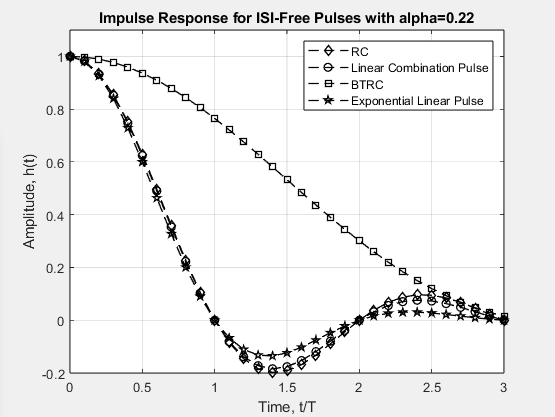
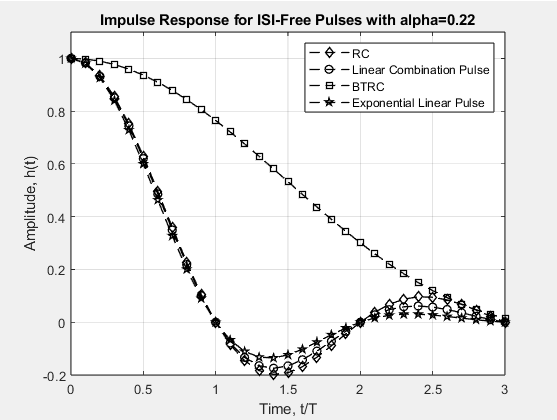
dasdas

diff --git a/EL7041 Comu Avan/P1/Eye_Diagram_LCP_RaisedCosine.m b/EL7041 Comu Avan/P1/Eye_Diagram_LCP_RaisedCosine.m
@@ -7,7 +7,7 @@ clc
 N  = 10^5; % number of symbols, solo se tomaran las primeras 1000000 muestras
 am = 2*(rand(1,N)>0.5)-1 + (1i)*(2*(rand(1,N)>0.5)-1); %random binary sequence BPSK
 fs = 10; % sampling frequency in Hz
-alpha = 0.5; %roll-off factor
+alpha = 0.22; %roll-off factor
 %--------------------------------------------------------------------------
 %--------------------------------------------------------------------------
 %RAISED COSINE FILTER
@@ -34,17 +34,17 @@ gt_alpha35 = sincOp.*cosOp; %RC impulse responde
 % constante*PLP(n=1) +(1-constante)RC
 constante=1.7;  %valor de la constante Beta --> referencia 
 
-Exp1_Num=((1-constante)*sin(pi*[-fs:1/fs:fs]).*cos(pi*alpha*[-fs:1/fs:fs]));
+Exp1_Num=((1-constante)*sin(pi*[-fs:1/fs:fs]).*cos(pi*alpha*[-fs:1/fs:fs])); %RC
 Exp1_Den=pi*[-fs:1/fs:fs].*(1-(2*alpha*[-fs:1/fs:fs]).^2);
 Exp1DenZero=find(abs(Exp1_Den) < 10^-10);
 Exp1_Total=Exp1_Num./Exp1_Den;
 Exp1_Total(Exp1DenZero)=0;
 
-Exp2_Num=constante*sin(pi*[-fs:1/fs:fs]).*sin(pi*alpha*[-fs:1/fs:fs]);
+Exp2_Num=constante*sin(pi*[-fs:1/fs:fs]).*sin(pi*alpha*[-fs:1/fs:fs]); %PLP
 Exp2_Den=pi^2*alpha*[-fs:1/fs:fs].^2;
 Exp2DenZero=find(abs(Exp2_Den) < 10^-10);
 Exp2_Total=Exp2_Num./Exp2_Den;
-Exp2_Total(Exp2DenZero)=0;
+Exp2_Total(Exp2DenZero)=1;
 
 Linear_Combination_Pulse_PLP=(Exp1_Total+Exp2_Total);
 

diff --git a/EL7041 Comu Avan/P1/Impulse_Frequency_Responses.m b/EL7041 Comu Avan/P1/Impulse_Frequency_Responses.m
@@ -7,7 +7,7 @@ clear all
 fs =10;
 NFFT=1024;
 FPulse=[-NFFT/2:NFFT/2-1]/NFFT;
-alpha = 0.5;
+alpha = 0.22;
 %--------------------------------------------------------------------------
 %--------------------------------------------------------------------------
 %defining the RC filter
@@ -30,19 +30,19 @@ RC_Filter_Spectrum_dB = 20*log10((fft(RC_Filter,1024))/fs);
 %--------------------------------------------------------------------------
 %LINEAR COMBINATION PULSE
 %alpha*PLP(n=1) +(1-alpha)RC
-constante=1; %alpha
+constante=1.7; %alpha
 
 Exp1_Num=((1-constante)*sin(pi*[-fs:1/fs:fs]).*cos(pi*alpha*[-fs:1/fs:fs])); %RC
 Exp1_Den=pi*[-fs:1/fs:fs].*(1-(2*alpha*[-fs:1/fs:fs]).^2);
 Exp1DenZero=find(abs(Exp1_Den) < 10^-10);
 Exp1_Total=Exp1_Num./Exp1_Den;
-Exp1_Total(Exp1DenZero)=0.5;
+Exp1_Total(Exp1DenZero)=0;
 
 Exp2_Num=constante*sin(pi*[-fs:1/fs:fs]).*sin(pi*alpha*[-fs:1/fs:fs]); %PLP
 Exp2_Den=pi^2*alpha*[-fs:1/fs:fs].^2;
 Exp2DenZero=find(abs(Exp2_Den) < 10^-10);
 Exp2_Total=Exp2_Num./Exp2_Den;
-Exp2_Total(Exp2DenZero)=0.5;
+Exp2_Total(Exp2DenZero)=1;
 
 Linear_Combination_Pulse_PLP=(Exp1_Total+Exp2_Total);
 Linear_Combination_Pulse_PLP_Spectrum=(abs((fft(Linear_Combination_Pulse_PLP,NFFT))/fs));

diff --git a/EL7041 Comu Avan/P1/BERyPulsos/Pulsos/LCP.m b/EL7041 Comu Avan/P1/BERyPulsos/Pulsos/LCP.m
@@ -1,0 +1,31 @@
+function[v]=LCP(t,alpha)
+% Function for the BTRC pulse shape.
+
+% Set the parameters
+T=1;
+
+%LINEAR COMBINATION PULSE
+%alpha*PLP(n=1) +(1-alpha)RC
+constante=1; %alpha
+
+Exp1_Num=((1-constante)*sin(pi*(t / T))*cos(pi*alpha*(t / T))); %RC
+Exp1_Den=pi*(t / T)*(1-(2*alpha*(t / T))^2);
+%Exp1DenZero=find(abs(Exp1_Den) < 10^-10);
+Exp1_Total=Exp1_Num./Exp1_Den;
+%Exp1_Total(Exp1DenZero)=0.5;
+
+Exp2_Num=constante*sin(pi*(t / T))*sin(pi*alpha*(t / T)); %PLP
+Exp2_Den=pi^2*alpha*(t / T)^2;
+%Exp2DenZero=find(abs(Exp2_Den) < 10^-10);
+Exp2_Total=Exp2_Num./Exp2_Den;
+%Exp2_Total(Exp2DenZero)=0.5;
+
+Linear_Combination_Pulse_PLP=(Exp1_Total+Exp2_Total);
+
+% Get the BTRC Pulse
+v = Linear_Combination_Pulse_PLP;
+
+end
+
+
+

diff --git a/EL7041 Comu Avan/P1/BERyPulsos/Pulsos/RC.m b/EL7041 Comu Avan/P1/BERyPulsos/Pulsos/RC.m
@@ -1,0 +1,24 @@
+function[v]=RC(t,alpha)
+% Function for the BTRC pulse shape.
+
+% Set the parameters
+T=1;
+
+sincNum = sin(pi*(t / T)); % numerator of the sinc function
+sincDen = (pi*(t / T)); % denominator of the sinc function
+%sincDenZero = find(abs(sincDen) < 10^-10);
+sincOp = sincNum/sincDen;
+%sincOp(sincDenZero) = 1; % sin(pix/(pix) =1 for x =0
+
+cosNum = cos(alpha*pi*(t / T));
+cosDen = (1-(2*alpha*(t / T))^2);
+%cosDenZero = find(abs(cosDen)<10^-10);
+cosOp = cosNum/cosDen;
+%cosOp(cosDenZero) = pi/4;
+
+RC_Filter = sincOp*cosOp;
+
+% Get the BTRC Pulse
+v = RC_Filter;
+
+end

diff --git a/EL7041 Comu Avan/P1/BERyPulsos/BTRC.m b/EL7041 Comu Avan/P1/BERyPulsos/BTRC.m
@@ -1,0 +1,21 @@
+function[v]=BTRC(t,alpha)
+% Function for the BTRC pulse shape.
+
+% Set the parameters
+T=1;
+beta = (pi * alpha) / log(2);
+
+% Calculate the sinc expression
+sinc_BTRC = sin(t / T);
+
+% Calculate the second expression for BTRC
+numerador_second_BTRC = (2 * beta * (t / T)) * sin(pi * alpha * (t / T));
+numerador_second_BTRC = numerador_second_BTRC + 2 * cos(pi * alpha * (t / T)) - 1;
+
+% Never 0
+denominador_second_BTRC = (beta * (t / T))^2 + 1;
+
+% Get the BTRC Pulse
+v = sinc_BTRC * numerador_second_BTRC / denominador_second_BTRC;
+
+end

diff --git a/EL7041 Comu Avan/P1/BERyPulsos/Pulsos/BTRC.m b/EL7041 Comu Avan/P1/BERyPulsos/Pulsos/BTRC.m
@@ -1,0 +1,21 @@
+function[v]=BTRC(t,alpha)
+% Function for the BTRC pulse shape.
+
+% Set the parameters
+T=1;
+beta = (pi * alpha) / log(2);
+
+% Calculate the sinc expression
+sinc_BTRC = sin(t / T);
+
+% Calculate the second expression for BTRC
+numerador_second_BTRC = (2 * beta * (t / T)) * sin(pi * alpha * (t / T));
+numerador_second_BTRC = numerador_second_BTRC + 2 * cos(pi * alpha * (t / T)) - 1;
+
+% Never 0
+denominador_second_BTRC = (beta * (t / T))^2 + 1;
+
+% Get the BTRC Pulse
+v = sinc_BTRC * numerador_second_BTRC / denominador_second_BTRC;
+
+end

diff --git a/EL7041 Comu Avan/P1/BERyPulsos/Pulsos/ELP.m b/EL7041 Comu Avan/P1/BERyPulsos/Pulsos/ELP.m
@@ -1,0 +1,25 @@
+function[v]=ELP(t,alpha)
+% Function for the BTRC pulse shape.
+
+% Set the parameters
+T=1;
+
+%EXPONENTIAL LINEAR PULSE
+constante=1; %alpha
+beta = 0.1; %Beta
+
+
+Exp2_2_Num=constante*sin(pi*(t / T))*sin(pi*alpha*(t / T)); %PLP
+Exp2_2_Den=pi^2*alpha*(t / T)^2;
+Exp2_2_Total=Exp2_2_Num/Exp2_2_Den;
+
+Exp3 = exp(-pi*(beta/2)*(t / T)^2);
+
+Exponential_Linear_Pulse=(Exp3.*Exp2_2_Total);
+
+% Get the BTRC Pulse
+v = Exponential_Linear_Pulse;
+
+end
+
+

diff --git a/EL7041 Comu Avan/P1/BERyPulsos/BTRC_Ten.m b/EL7041 Comu Avan/P1/BERyPulsos/BTRC_Ten.m
@@ -1,0 +1,11 @@
+function[v]=BTRC_Ten(t,alpha)
+% Function for the BTRC pulse shape truncated to 10 periods.
+
+T=1;
+% Truncate the values.
+if t > 10
+    v = 0;
+else
+    v = BTRC(t, alpha);
+end
+end

diff --git a/EL7041 Comu Avan/P1/BERyPulsos/BTRC_Five.m b/EL7041 Comu Avan/P1/BERyPulsos/BTRC_Five.m
@@ -1,0 +1,11 @@
+function[v]=BTRC_Five(t,alpha)
+% Function for the BTRC pulse shape truncated to 5 periods.
+T=1;
+
+% Truncate the value
+if t > 5
+    v = 0;
+else
+    v = BTRC(t, alpha);
+end
+end
